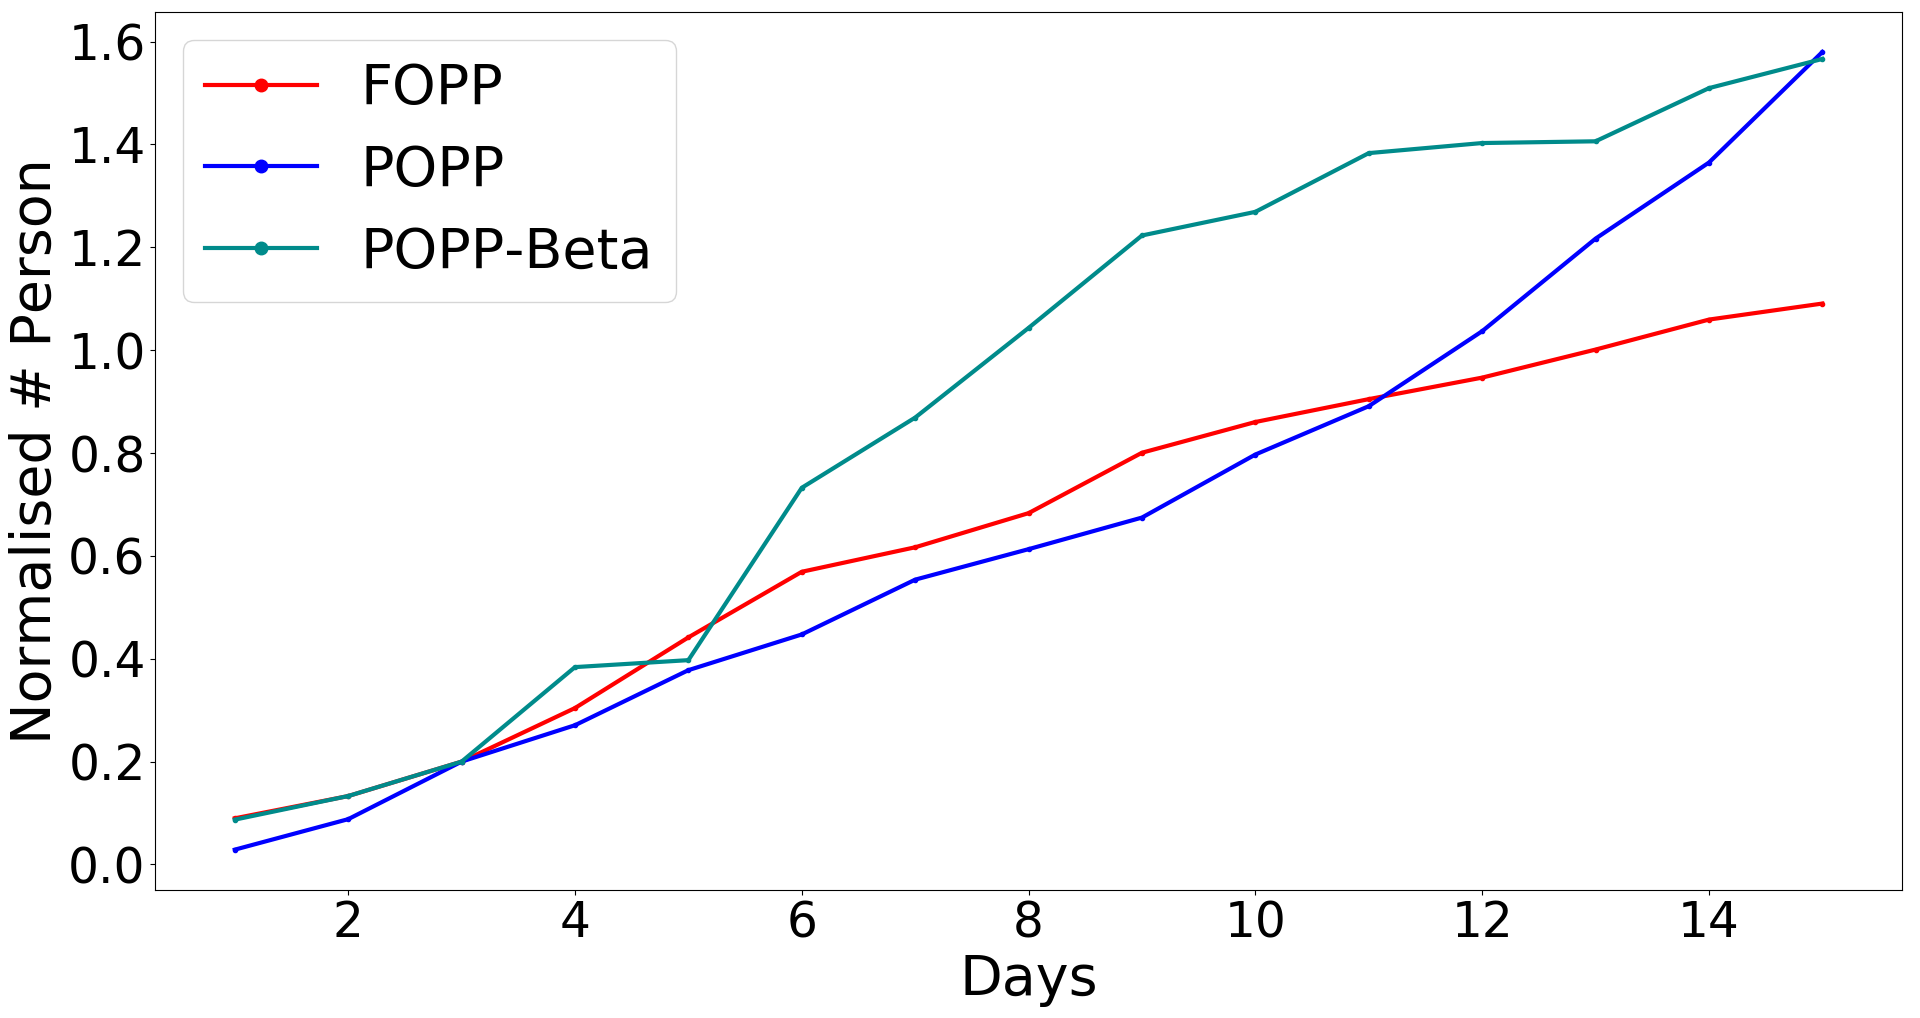
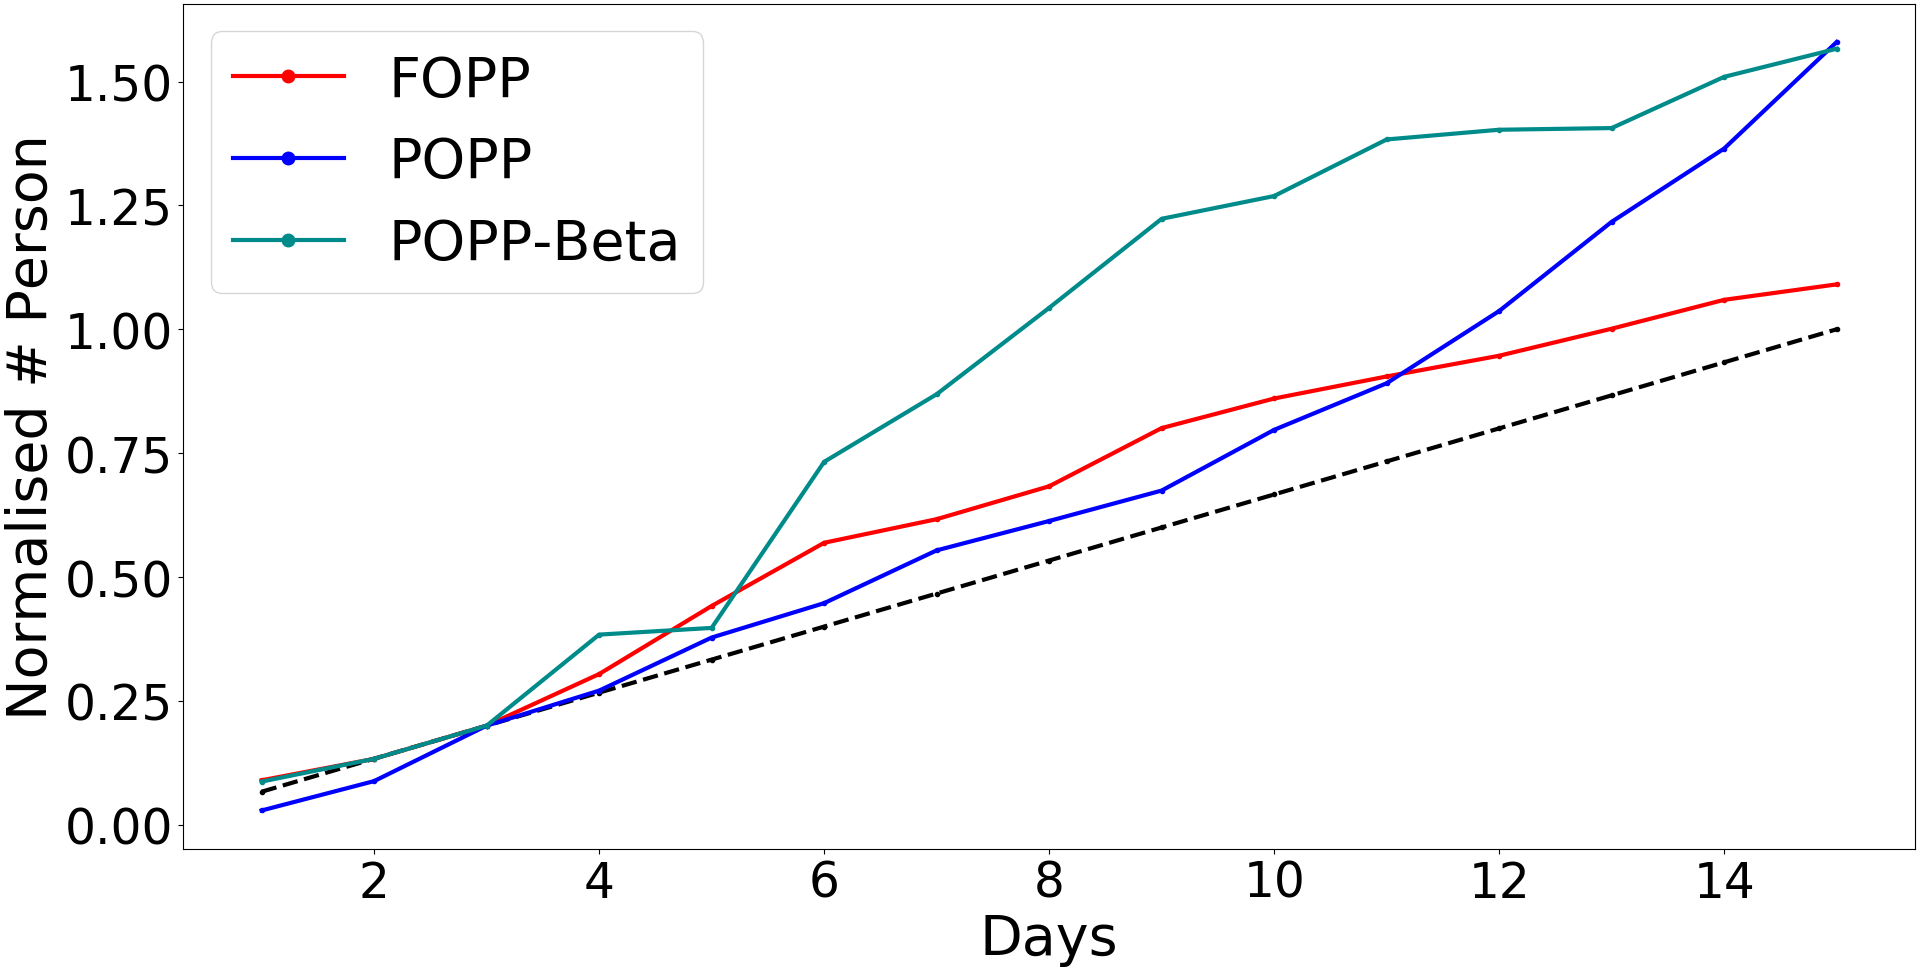
adding baseline dash line at figure 15

diff --git a/src/exploration.tex b/src/exploration.tex
@@ -143,7 +143,7 @@ We can compare the different exploration policies on the observations the robot 
 \begin{figure}[t!]
 	\centering
 	\includegraphics[width=0.5\textwidth]{./figures/exploration_number_people_across_days_normalised.png}
-	\caption{The improvement ratio of activity observations during each phase of the trial. A ratio of 1.0 means that the exploration model gives no improvement over time in finding more people.}
+	\caption{The improvement ratio of activity observations during each phase of the trial. The dash line indicates a baseline performance, i.e., no improvement in exploration over time.}
 	\label{fig:exploration_improvement_ratio}
 \end{figure}
 

diff --git a/bare_jrnl.tex b/bare_jrnl.tex
@@ -101,7 +101,7 @@
 % \title{Spectral-POPP for Robot Exploration in Partially Observable Environments}
 \title{Counting Reliably with Unreliable Sensors: Partially Observable Poisson Processes for Robot Exploration}
 
-\author{Ferdian~Jovan, Milan Tomy Mariya, Jeremy L Wyatt, Nick Hawes 
+\author{Ferdian~Jovan, Milan Tomy Mariya, Nick Hawes, Jeremy L Wyatt 
 % \IEEEcompsocitemizethanks{\IEEEcompsocthanksitem F. Jovan is with the Department
 % of Engineering Science, University of Oxford, Oxford, OX1~3PJ.\protect\\
 % E-mail: ferdian.jovan@gmail.com 
